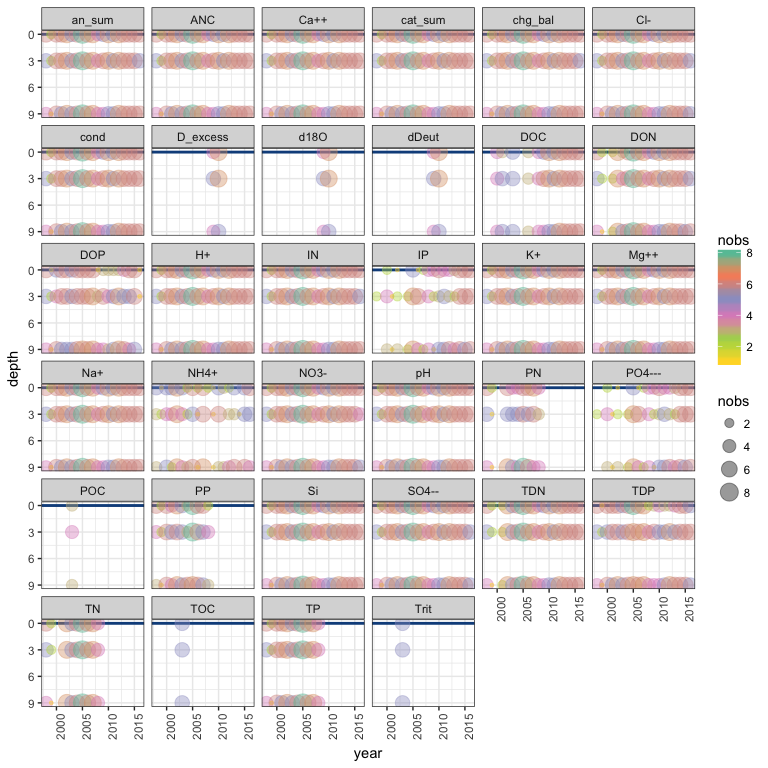
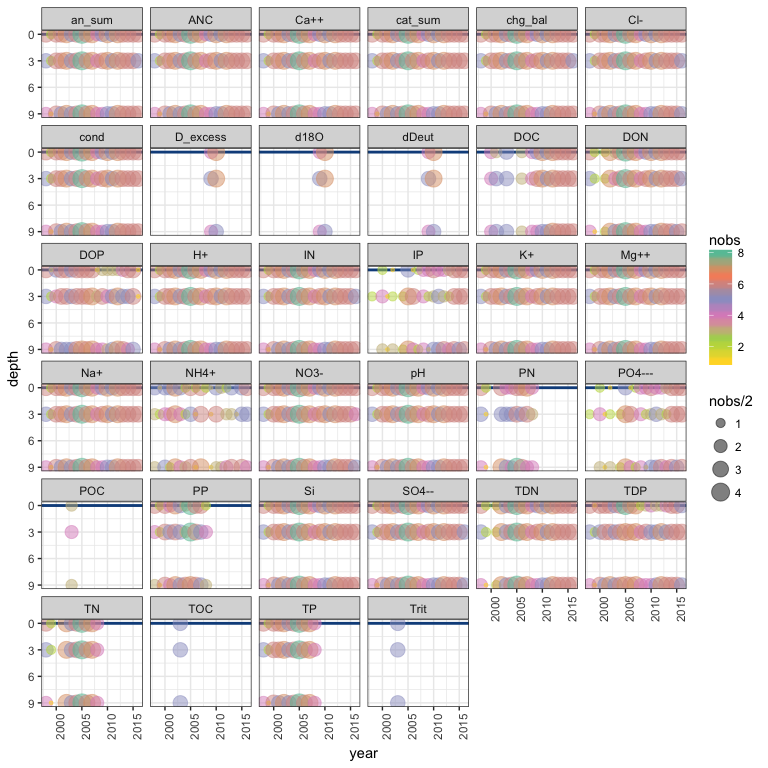
More minor edits, still work in progress (cleaning up figures)

diff --git a/GL4_WQ_waterchem_datamunging.md b/GL4_WQ_waterchem_datamunging.md
@@ -231,53 +231,7 @@ The following figures show data availability, temporal and depth ranges, and sam
 
 ![](GL4_WQ_waterchem_datamunging_files/figure-markdown_github/plot%20data%20availability-1.png)![](GL4_WQ_waterchem_datamunging_files/figure-markdown_github/plot%20data%20availability-2.png)![](GL4_WQ_waterchem_datamunging_files/figure-markdown_github/plot%20data%20availability-3.png)![](GL4_WQ_waterchem_datamunging_files/figure-markdown_github/plot%20data%20availability-4.png)![](GL4_WQ_waterchem_datamunging_files/figure-markdown_github/plot%20data%20availability-5.png)
 
-``` r
-# Compare outlet values by source
-ggplot(subset(GL4_waterchem, location == "Outlet")) +
-  geom_point(aes(date, value, col=source), alpha=0.5) +
-  labs(x="Date", y ="Value", title = "GL4 water chemistry samples from outlet") +
-  theme_light() +
-  facet_wrap(~metric, scales = "free_y")
-```
-
-![](GL4_WQ_waterchem_datamunging_files/figure-markdown_github/unnamed-chunk-8-1.png)
-
-``` r
-ggplot(subset(GL4_waterchem, location == "Lake" & depth == 0)) +
-  geom_point(aes(date, value, col=source), alpha=0.5) +
-  labs(x="Date", y ="Value", title = "GL4 water chemistry samples from lake surface") +
-  theme_light() +
-  facet_wrap(~metric, scales = "free_y")
-```
-
-![](GL4_WQ_waterchem_datamunging_files/figure-markdown_github/unnamed-chunk-8-2.png)
-
-``` r
-# What is temporal frequency of data by measurement and site?
-ggplot(GL4_waterchem, aes(date, value, col=source)) + 
-         geom_point(alpha=0.3) +
-  #geom_errorbar(aes(ymin = value - sd_value, ymax = value + sd_value), alpha=0.3) +
-  labs(title = "Data availability at GL4, by dataset source and lake depth ('NA' refers to Outlet samples)") +
-  theme_light() +
-  facet_grid(metric~depth, scales = "free_y") +
-  theme(strip.text.y = element_text(angle=360))
-```
-
-![](GL4_WQ_waterchem_datamunging_files/figure-markdown_github/unnamed-chunk-8-3.png)
-
-``` r
-# What are characteristics of each site/depth and measurement through time?
-ggplot(subset(McKnight_long, doy %in% 100:300), aes(doy, value)) + 
-  geom_point(aes(col=year), alpha=0.3) +
-  #geom_errorbar(aes(ymin = value - sd_value, ymax = value + sd_value), alpha=0.3) +
-  labs(title = "McKnight water chemistry measurements, by day of year and metric") +
-  scale_color_distiller(palette="PuBu") +
-  theme_light() +
-  facet_grid(metric~location*depth, scales = "free_y") +
-  theme(strip.text.y = element_text(angle=360))
-```
-
-![](GL4_WQ_waterchem_datamunging_files/figure-markdown_github/unnamed-chunk-8-4.png)
+![](GL4_WQ_waterchem_datamunging_files/figure-markdown_github/plot%20actual%20data%20values-1.png)![](GL4_WQ_waterchem_datamunging_files/figure-markdown_github/plot%20actual%20data%20values-2.png)![](GL4_WQ_waterchem_datamunging_files/figure-markdown_github/plot%20actual%20data%20values-3.png)![](GL4_WQ_waterchem_datamunging_files/figure-markdown_github/plot%20actual%20data%20values-4.png)
 
 ``` r
 # Did errorbars add correctly? Yes!
